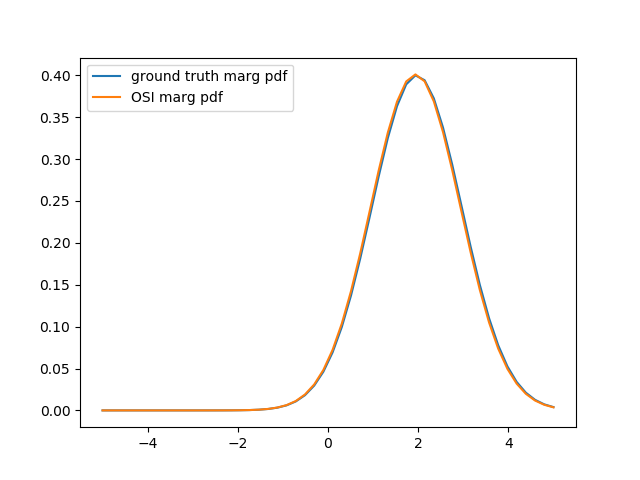
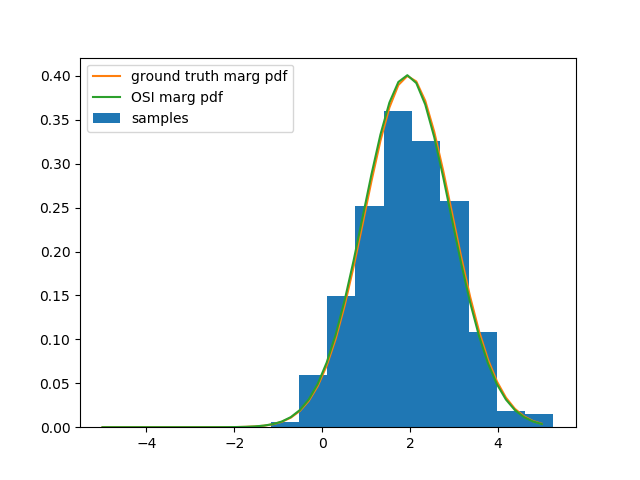
tweaking the hybrid potential in prev experiment to bias the non-zero mean towards [0, -1]; not very successful because of small precision coef w=0.01 (can't be too big b/c -(x1-x2)^2 is indefinite); also plot Gibbs samples; note OSI's bfe no longer approaches true -log Z b/c OSI omits constant term

diff --git a/osi/hybrid_mln_test_0.py b/osi/hybrid_mln_test_0.py
@@ -34,7 +34,7 @@ means = np.array([[-2., -2.], [0., 1.], [3., 0.]])
 #            ]
 
 factors = [F(nb=(rvs[0], rvs[2], rvs[3]),
-             potential=MLNPotential(lambda x: x[0] * eq_op(x[1], x[2]), w=0.01)),
+             potential=MLNPotential(lambda x: x[0] * eq_op(x[1], x[2] + 1), w=0.01)),
            # F(nb=(rvs[0], rvs[1]), potential=MLNPotential(lambda x: imp_op(x[0] * x[1], x[2]), w=1)),
            F(nb=(rvs[0], rvs[1]), potential=MLNPotential(lambda x: and_op(x[0], x[1]), w=1)),
            # F(nb=(rvs[2],), potential=QuadraticPotential(A=-0.5 * np.ones([1, 1]), b=np.zeros([1]), c=0.))
@@ -83,8 +83,8 @@ for i, rv in enumerate(rvs):
 # manual conversion here:
 factors[0].potential = HybridQuadraticPotential(
     A=np.array([np.zeros([2, 2]), -0.5 * factors[0].potential.w * np.array([[1., -1.], [-1., 1.]])]),
-    b=np.zeros([rvs[0].dstates, 2]),  # 2 is b/c there's 2 cont nodes
-    c=np.zeros(rvs[0].dstates)
+    b=np.array([np.array([0., 0.]), -0.5 * factors[0].potential.w * np.array([-2., 2.])]),
+    c=np.array([0., -0.5 * factors[0].potential.w * 1])
 )
 factors[1].potential = utils.convert_disc_MLNPotential_to_TablePotential(factors[1].potential, factors[1].nb)
 utils.set_log_potential_funs(factors, skip_existing=False)  # reset lpot_funs
@@ -101,15 +101,14 @@ for i, rv in enumerate(rvs):
 for a, name in enumerate(names):
     print(f'{name} mmap diff', mmap_res[a] - true_mmap)
 
-#
-# num_burnin = 200
-# num_samples = 500
-# disc_samples, cont_samples = block_gibbs_sample(factors, Vd=Vd, Vc=Vc, num_burnin=num_burnin,
-#                                                 num_samples=num_samples, disc_block_its=20)
-#
-# test_drv_idx = 0
-# print('true test drv marg', get_drv_marg(bn[0], Vd_idx, Vd[test_drv_idx]))
-# print('sampled test drv marg', np.bincount(disc_samples[:, test_drv_idx]) / num_samples)
+num_burnin = 200
+num_samples = 500
+disc_samples, cont_samples = block_gibbs_sample(factors, Vd=Vd, Vc=Vc, num_burnin=num_burnin,
+                                                num_samples=num_samples, disc_block_its=20)
+
+test_drv_idx = 0
+print('true test drv marg', get_drv_marg(bn[0], Vd_idx, Vd[test_drv_idx]))
+print('sampled test drv marg', np.bincount(disc_samples[:, test_drv_idx]) / num_samples)
 #
 # test_crv_idx = 0
 test_crv_idx = 1
@@ -122,7 +121,7 @@ import matplotlib.pyplot as plt
 
 plt.figure()
 xs = np.linspace(-5, 5, 50)
-# plt.hist(cont_samples[:, test_crv_idx], normed=True, label='samples')
+plt.hist(cont_samples[:, test_crv_idx], normed=True, label='samples')
 plt.plot(xs,
          np.exp(utils.get_scalar_gm_log_prob(xs, w=test_crv_marg_params[0], mu=test_crv_marg_params[1],
                                              var=test_crv_marg_params[2])),
